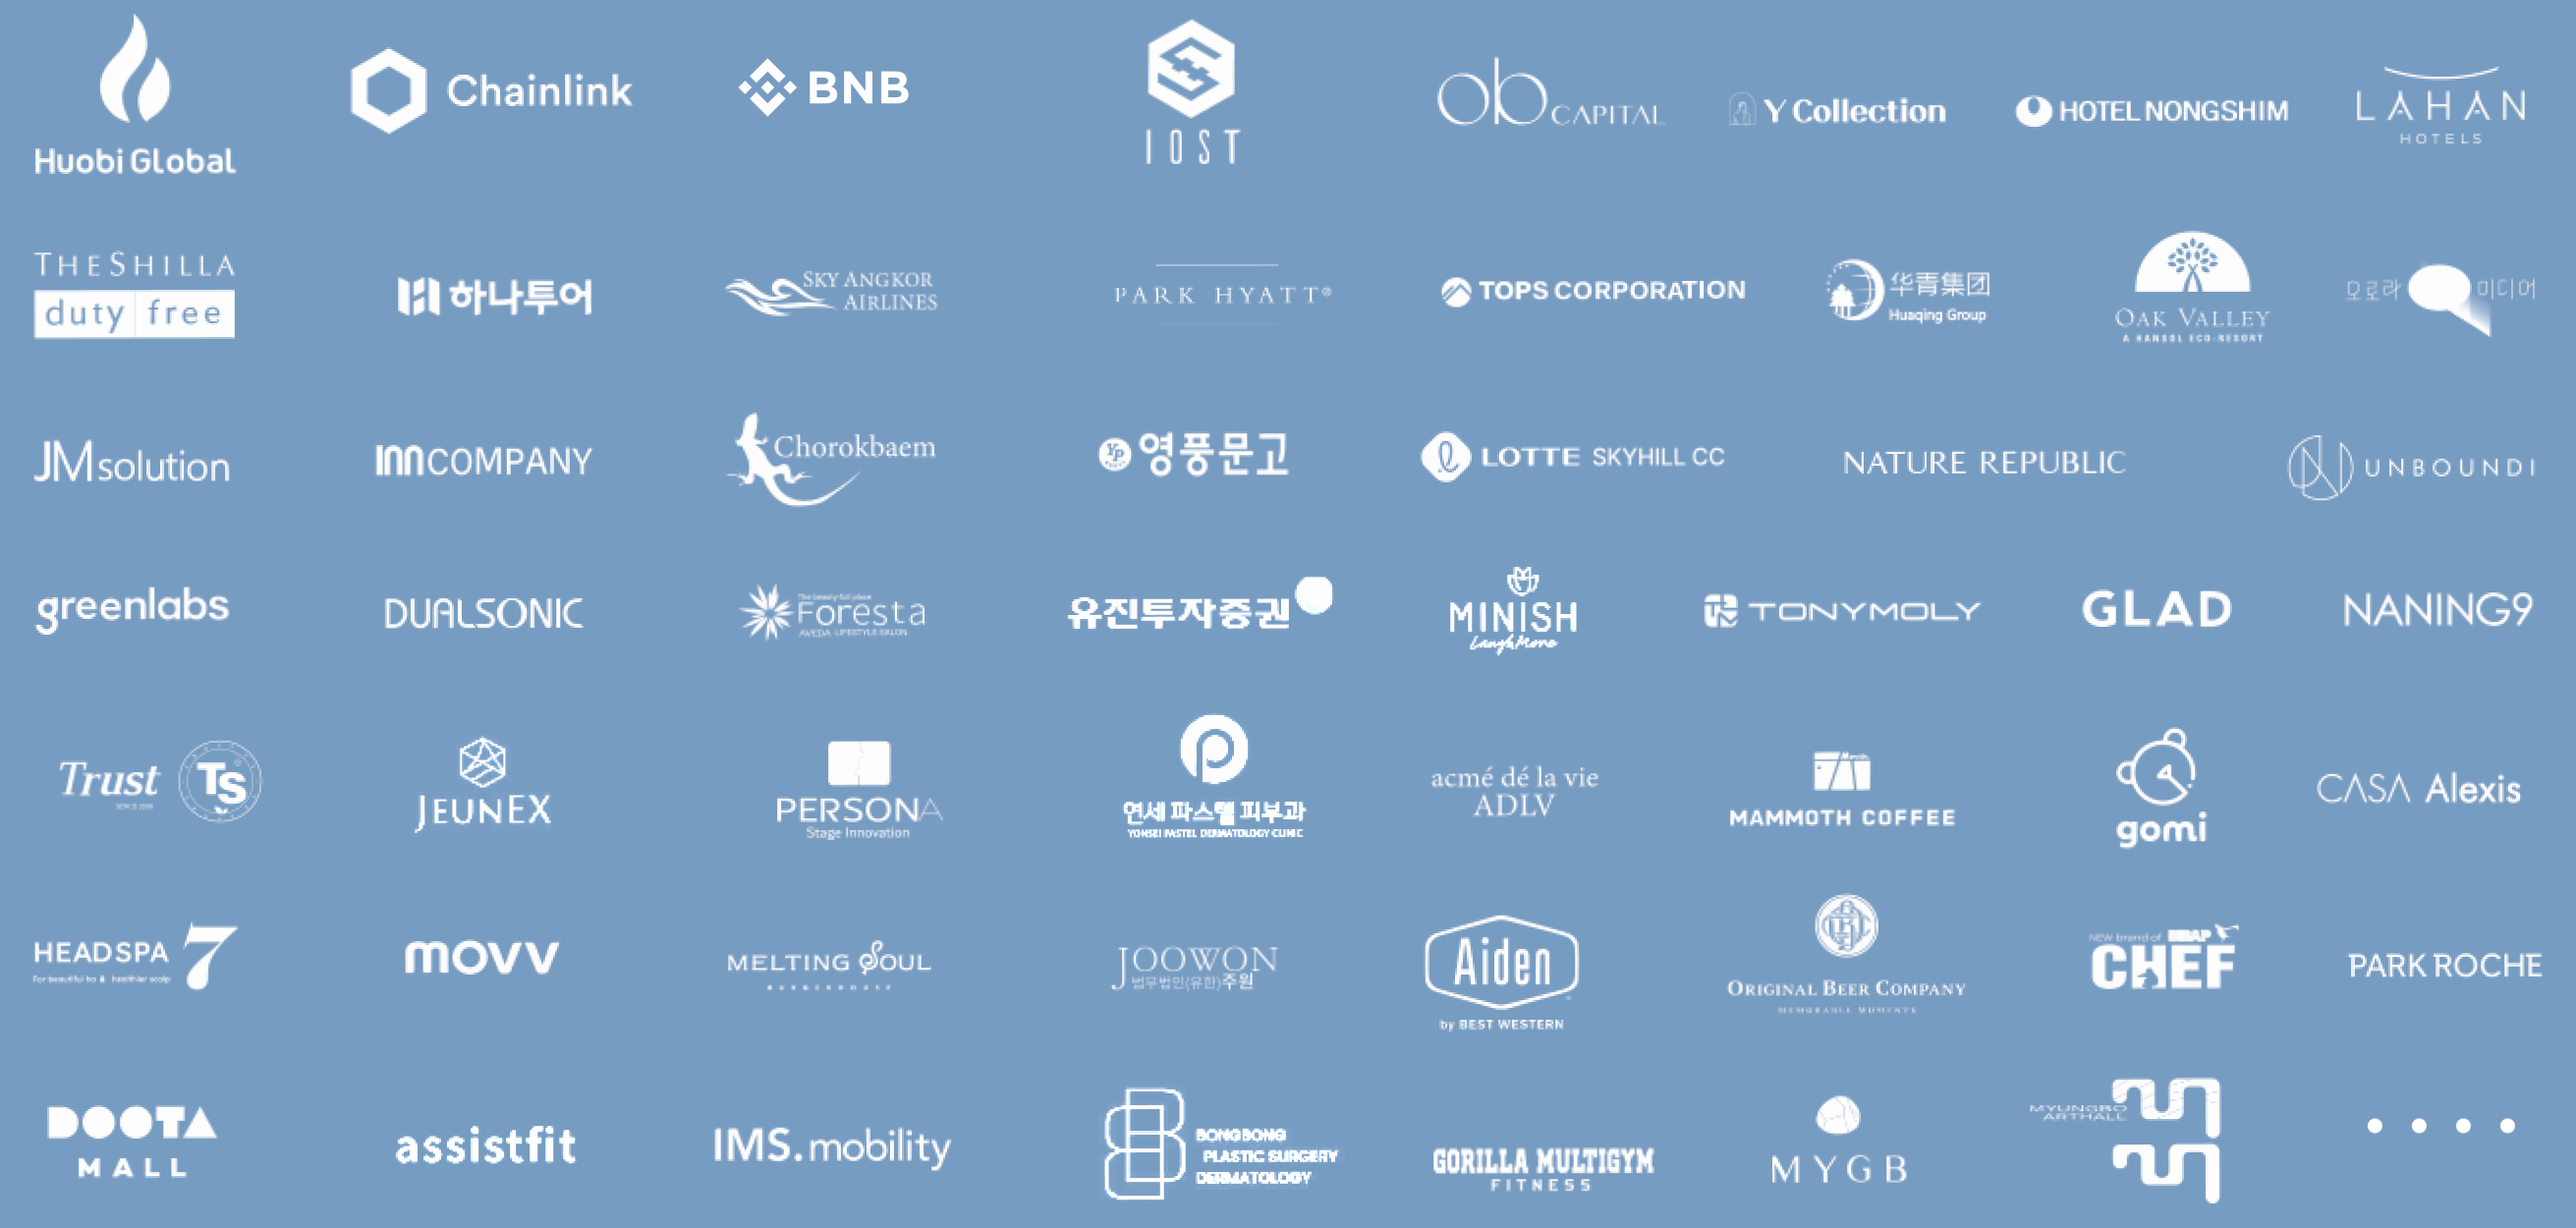
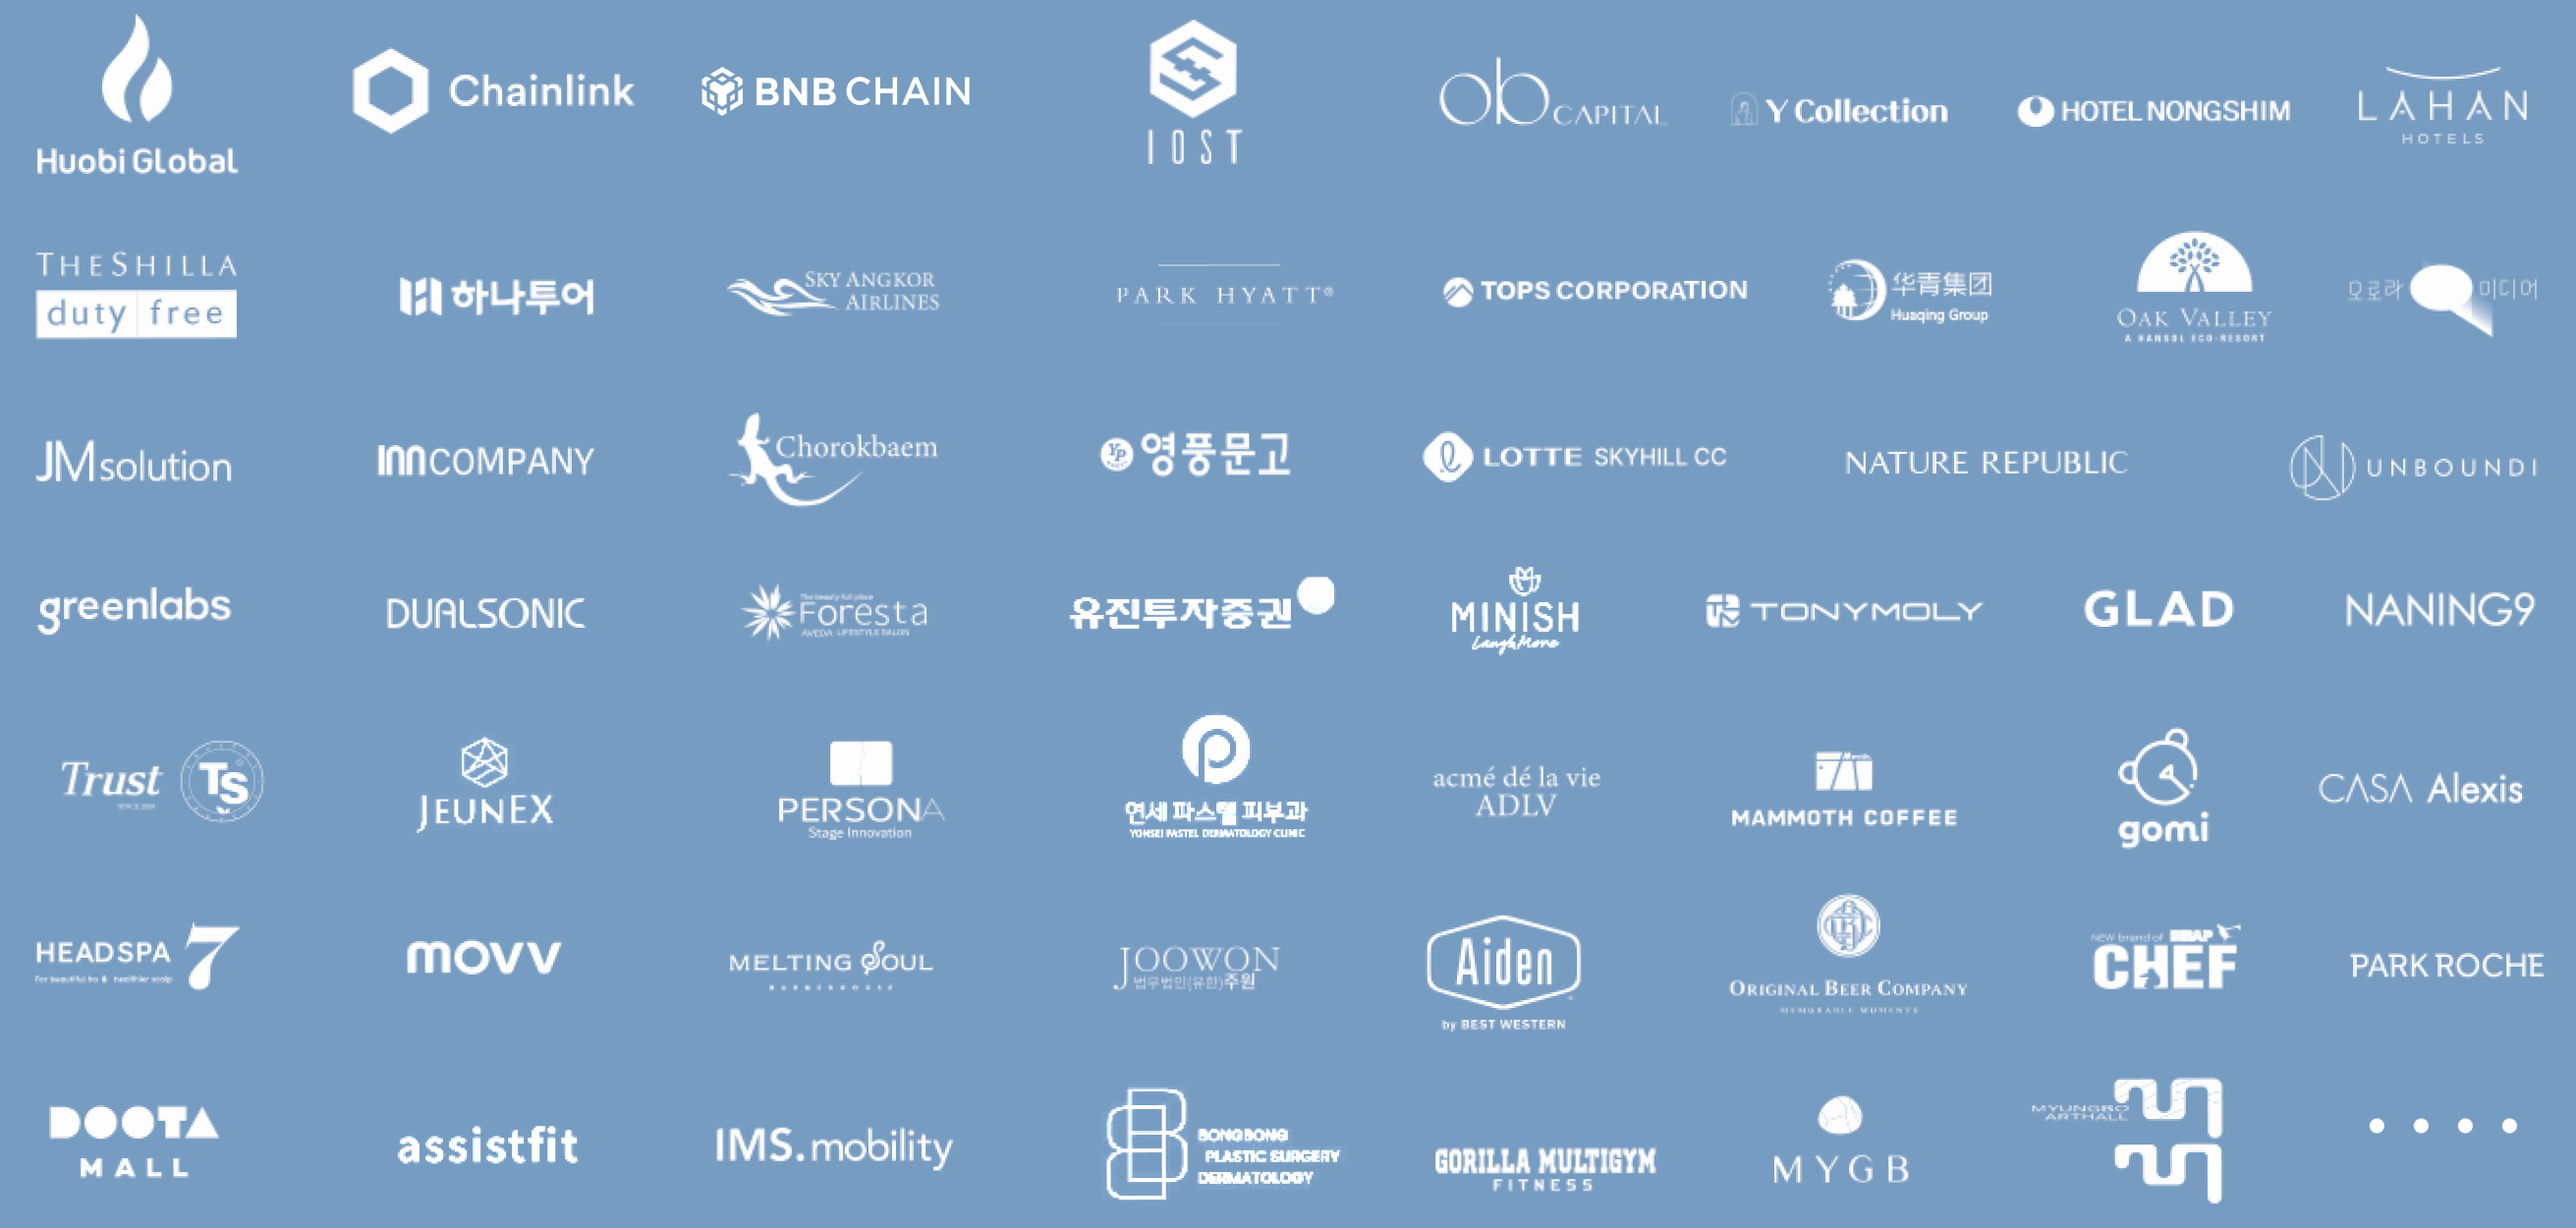
커넥트월드 bnb로고변경, infra, eco system 텍스트 변경

diff --git a/konnect_world/views/index_ko.html b/konnect_world/views/index_ko.html
@@ -390,7 +390,7 @@
                         <div class="konnect_info">
                             <div class="konnect_info_top">
                                 <div class="info_text_box">
-                                    <h1 class="big_tit_2">KONNECT INFRA</h1>
+                                    <h1 class="big_tit_2">INFRA</h1>
                                     <p class="big_detail2">
                                         면세 유통업/인바운드 여행업 분야 1,3위 면세 유통업/인바운드
                                         여행업 분야 1,3위 회사가<br />
@@ -446,7 +446,7 @@
                         <div class="konnect_info">
                             <div class="konnect_info_top pb_0">
                                 <div class="info_text_box">
-                                    <h1 class="big_tit_2 tx_white">KONNECT PARTNER</h1>
+                                    <h1 class="big_tit_2 tx_white">ECO SYSTEM</h1>
                                 </div>
                                 <ul class="konnect_info_content">
                                     <li class="content_1">
@@ -690,7 +690,7 @@
                         <div class="m_konnect_info_in_2">
                             <div class="konnect_info_top">
                                 <div class="info_text_box">
-                                    <h1 class="big_tit_2">KONNECT INFRA</h1>
+                                    <h1 class="big_tit_2">INFRA</h1>
                                     <p class="big_detail2">
                                         면세 유통업/인바운드 여행업 분야 1,3위<br />
                                         면세 유통업/인바운드 여행업 분야 1,3위 회사가<br />

diff --git a/konnect_world/views/index_en.html b/konnect_world/views/index_en.html
@@ -397,7 +397,7 @@
                         <div class="konnect_info">
                             <div class="konnect_info_top">
                                 <div class="info_text_box">
-                                    <h1 class="big_tit_2">KONNECT INFRA</h1>
+                                    <h1 class="big_tit_2">INFRA</h1>
                                     <p class="big_detail2">
                                         The No.1 and No.3 companies in the duty-free
                                         distribution/inbound travel industry gather together!<br />
@@ -466,7 +466,7 @@
                         <div class="konnect_info">
                             <div class="konnect_info_top pb_0">
                                 <div class="info_text_box">
-                                    <h1 class="big_tit_2 tx_white">KONNECT PARTNER</h1>
+                                    <h1 class="big_tit_2 tx_white">ECO SYSTEM</h1>
                                 </div>
                                 <ul class="konnect_info_content">
                                     <li class="content_1">
@@ -711,7 +711,7 @@
                         <div class="m_konnect_info_in_2">
                             <div class="konnect_info_top">
                                 <div class="info_text_box">
-                                    <h1 class="big_tit_2">KONNECT INFRA</h1>
+                                    <h1 class="big_tit_2">INFRA</h1>
                                     <p class="big_detail2 minus_margin">
                                         The No.1 and No.3 companies in the duty-free<br />
                                         distribution/inbound travel industry gather<br />
